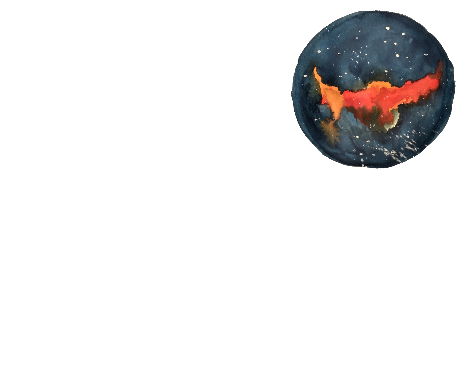
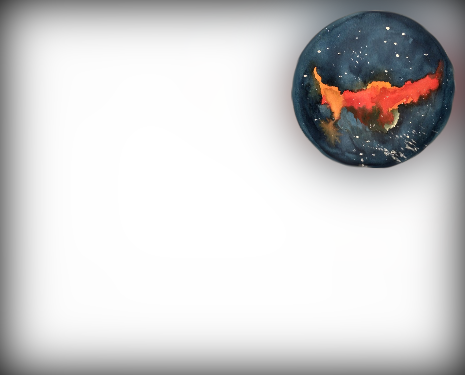
Cardinal specific changes

diff --git a/src/Clouds.cpp b/src/Clouds.cpp
@@ -304,7 +304,11 @@ struct CloudsBufferItem : MenuItem {
 #endif
 
 struct CustomPanel : TransparentWidget {
-	NVGcolor backgroundColor = componentlibrary::SCHEME_LIGHT_GRAY;
+#ifdef PARASITES
+  NVGcolor backgroundColor = nvgRGB(0x30, 0x25, 0x25);
+#else
+  NVGcolor backgroundColor = nvgRGB(0x19, 0x19, 0x19);
+#endif
   std::string imagePath;
 
   void draw(const DrawArgs &args) override;
@@ -330,42 +334,34 @@ void CustomPanel::draw(const DrawArgs &args) {
 		nvgFill(args.vg);
 	}
 
-	Widget::draw(args);
+	TransparentWidget::draw(args);
 }
 
 struct CloudsWidget : ModuleWidget {
+  CustomPanel *panel;
+
   CloudsWidget(Clouds *module) {
-		setModule(module);
-
-    box.size = Vec(465, 380);
-
-    {
-      CustomPanel *panel = new CustomPanel();
-#ifdef PARASITES
-      panel->imagePath = asset::plugin(pluginInstance, "res/Neil.png");
-#else
-      panel->imagePath = asset::plugin(pluginInstance, "res/Joni.png");
-#endif
-
-      panel->box.size = box.size;
-      addChild(panel);
-    }
+    setModule(module);
 
 #ifdef PARASITES
     const std::string svgPath = asset::plugin(pluginInstance, "res/Neil.svg");
 #else
     const std::string svgPath = asset::plugin(pluginInstance, "res/Joni.svg");
 #endif
-    FramebufferWidget* fb = new FramebufferWidget();
-    SvgWidget* labels = new SvgWidget();
-    labels->setSvg(Svg::load(svgPath));
-    fb->addChild(labels);
-    addChild(fb);
+    setPanel(APP->window->loadSvg(svgPath));
+
+    panel = new CustomPanel();
+#ifdef PARASITES
+    panel->imagePath = asset::plugin(pluginInstance, "res/Neil.png");
+#else
+    panel->imagePath = asset::plugin(pluginInstance, "res/Joni.png");
+#endif
+    panel->box.size = box.size;
 
     addChild(createWidget<ScrewSilver>(Vec(15, 0)));
-		addChild(createWidget<ScrewSilver>(Vec(435, 0)));
-		addChild(createWidget<ScrewSilver>(Vec(15, 365)));
-		addChild(createWidget<ScrewSilver>(Vec(435, 365)));
+    addChild(createWidget<ScrewSilver>(Vec(435, 0)));
+    addChild(createWidget<ScrewSilver>(Vec(15, 365)));
+    addChild(createWidget<ScrewSilver>(Vec(435, 365)));
 
     // TODO
     // addParam(createParam<MediumMomentarySwitch>(Vec(211, 51), module, Clouds::POSITION_PARAM));
@@ -411,6 +407,11 @@ struct CloudsWidget : ModuleWidget {
 #endif
 
   };
+
+  void draw(const DrawArgs &args) override {
+      panel->draw(args);
+      ModuleWidget::draw(args);
+  }
 
   void appendContextMenu(Menu *menu) override {
     Clouds *clouds = dynamic_cast<Clouds*>(this->module);
